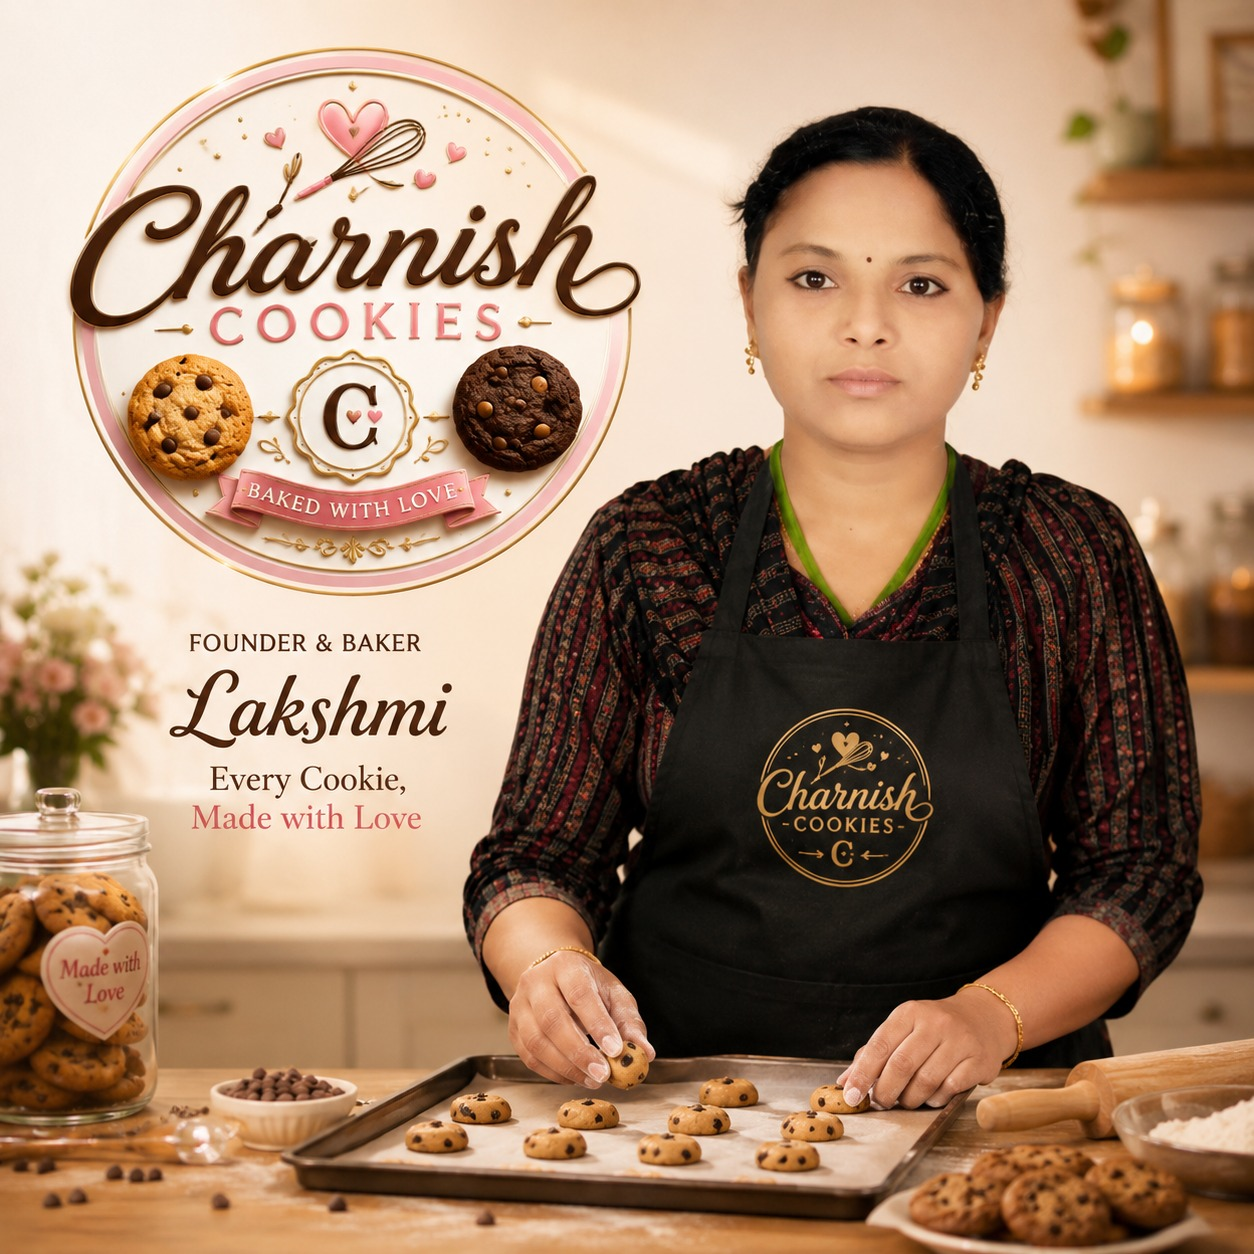
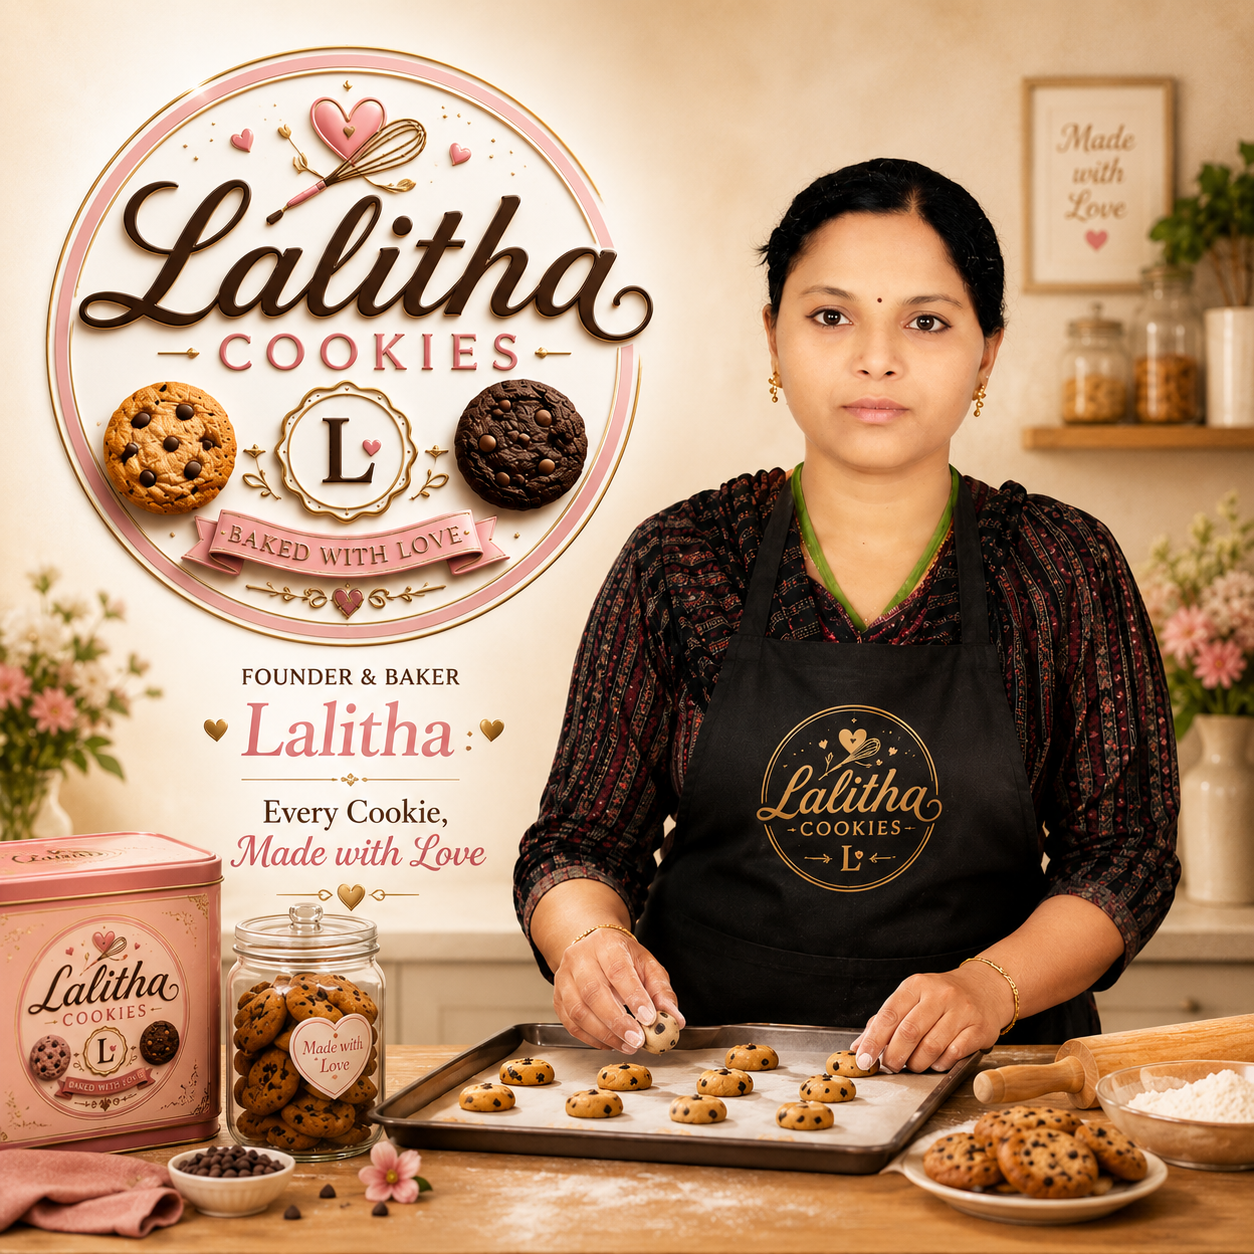
Added full project files

diff --git a/app/admin/coupons/page.tsx b/app/admin/coupons/page.tsx
@@ -1,7 +1,7 @@
 'use client';
 
 import { FormEvent, useEffect, useState } from 'react';
-import { collection, onSnapshot, orderBy, query } from 'firebase/firestore';
+import { addDoc, collection, deleteDoc, doc, onSnapshot, orderBy, query, serverTimestamp, Timestamp, updateDoc } from 'firebase/firestore';
 import toast from 'react-hot-toast';
 import { AdminLayout } from '@/components/admin/AdminLayout';
 import { Button } from '@/components/ui/Button';
@@ -31,23 +31,20 @@ export default function AdminCouponsPage() {
         minOrder: Number(form.get('minOrder')),
         maxUses: Number(form.get('maxUses')),
         usedCount: editing?.usedCount ?? 0,
-        expiresAt: new Date(String(form.get('expiresAt'))).toISOString(),
+        expiresAt: Timestamp.fromDate(new Date(String(form.get('expiresAt')))),
         active: form.get('active') === 'on'
       };
-      const response = await fetch('/api/coupons', {
-        method: 'PUT',
-        headers: { 'content-type': 'application/json' },
-        body: JSON.stringify({ id: editing?.id, ...payload })
-      });
-      const data = await response.json();
-      if (!response.ok) {
-        throw new Error(data.error ?? 'Coupon save failed');
+      if (editing?.id) {
+        await updateDoc(doc(db, 'coupons', editing.id), { ...payload, updatedAt: serverTimestamp() });
+      } else {
+        await addDoc(collection(db, 'coupons'), { ...payload, createdAt: serverTimestamp(), updatedAt: serverTimestamp() });
       }
       event.currentTarget.reset();
       setEditing(null);
       toast.success(editing?.id ? 'Coupon updated' : 'Coupon saved');
     } catch (error) {
-      toast.error(error instanceof Error ? error.message : 'Could not save coupon.');
+      console.error('Coupon save error:', error);
+      toast.error('Could not save coupon. Confirm you are logged in as [email redacted] and rules are published.');
     } finally {
       setLoading(false);
     }
@@ -56,16 +53,11 @@ export default function AdminCouponsPage() {
   async function remove(id: string) {
     if (!window.confirm('Delete this coupon?')) return;
     try {
-      const response = await fetch('/api/coupons', {
-        method: 'DELETE',
-        headers: { 'content-type': 'application/json' },
-        body: JSON.stringify({ id })
-      });
-      const data = await response.json();
-      if (!response.ok) throw new Error(data.error ?? 'Coupon delete failed');
+      await deleteDoc(doc(db, 'coupons', id));
       toast.success('Coupon deleted');
     } catch (error) {
-      toast.error(error instanceof Error ? error.message : 'Could not delete coupon');
+      console.error('Coupon delete error:', error);
+      toast.error('Could not delete coupon. Confirm admin login/rules.');
     }
   }
 

diff --git a/components/admin/OrderTable.tsx b/components/admin/OrderTable.tsx
@@ -7,6 +7,7 @@ import { Order } from '@/types';
 import { formatCurrency } from '@/lib/utils';
 import { Button } from '@/components/ui/Button';
 import toast from 'react-hot-toast';
+import { buildReceipt, buildReceipts } from '@/lib/pdf';
 
 const PAYMENT_COLORS: Record<string, string> = {
   pending:  'bg-amber-100 text-amber-800',
@@ -82,6 +83,18 @@ export function OrderTable() {
     }
   }
 
+  function downloadReceipt(order: Order) {
+    buildReceipt(order).save(`${order.orderNumber || 'charnish-order'}-receipt.pdf`);
+  }
+
+  function downloadAllReceipts() {
+    if (!orders.length) {
+      toast.error('No orders to download');
+      return;
+    }
+    buildReceipts(orders).save(`charnish-all-receipts-${new Date().toISOString().slice(0, 10)}.pdf`);
+  }
+
   if (loading) {
     return (
       <div className="brand-card p-5">
@@ -109,6 +122,9 @@ export function OrderTable() {
         <h2 className="font-heading text-lg font-bold text-choc-800">
           All Orders <span className="ml-2 text-sm font-normal text-choc-500">({orders.length})</span>
         </h2>
+        <Button variant="gold" className="h-9 px-4 text-xs" onClick={downloadAllReceipts}>
+          Download All Receipts
+        </Button>
       </div>
       <table className="w-full min-w-[860px] text-left text-sm">
         <thead className="text-choc-800">
@@ -149,6 +165,9 @@ export function OrderTable() {
                       View Screenshot
                     </Button>
                   )}
+                  <Button variant="gold" className="h-7 px-2 text-xs" onClick={() => downloadReceipt(order)}>
+                    Receipt
+                  </Button>
                   {order.paymentStatus === 'pending' && (
                     <>
                       <Button

diff --git a/lib/pdf.ts b/lib/pdf.ts
@@ -6,6 +6,12 @@ import { formatCurrency } from '@/lib/utils';
 
 export function buildReceipt(order: Order) {
   const doc = new jsPDF();
+  addReceiptPage(doc, order, false);
+  return doc;
+}
+
+function addReceiptPage(doc: jsPDF, order: Order, newPage: boolean) {
+  if (newPage) doc.addPage();
   doc.setFontSize(18);
   doc.text('Charnish Cookies', 14, 18);
   doc.setFontSize(10);
@@ -17,11 +23,18 @@ export function buildReceipt(order: Order) {
   autoTable(doc, {
     startY: 60,
     head: [['Item', 'Qty', 'Price', 'Subtotal']],
-    body: order.items.map((item) => [item.name, item.quantity, formatCurrency(item.price), formatCurrency(item.price * item.quantity)])
+    body: (order.items ?? []).map((item) => [item.name, item.quantity, formatCurrency(item.price), formatCurrency(item.price * item.quantity)])
   });
 
   doc.text(`Discount: ${formatCurrency(order.discount)}`, 14, 120);
   doc.text(`Grand Total: ${formatCurrency(order.total)}`, 14, 128);
-  doc.text('Thank you for ordering from Charnish Cookies.', 14, 142);
+  doc.text(`Payment: ${order.paymentMethod} | ${order.paymentStatus}`, 14, 136);
+  doc.text(`Status: ${order.orderStatus}`, 14, 144);
+  doc.text('Thank you for ordering from Charnish Cookies.', 14, 158);
+}
+
+export function buildReceipts(orders: Order[]) {
+  const doc = new jsPDF();
+  orders.forEach((order, index) => addReceiptPage(doc, order, index > 0));
   return doc;
 }

diff --git a/components/layout/AnnouncementBar.tsx b/components/layout/AnnouncementBar.tsx
@@ -1,0 +1,16 @@
+import { Gift, Sparkles, Truck } from 'lucide-react';
+
+export function AnnouncementBar() {
+  return (
+    <div className="relative isolate overflow-hidden bg-gradient-to-r from-choc-900 via-choc-800 to-pink-900 text-white">
+      <div className="absolute inset-0 opacity-20 [background-image:radial-gradient(circle_at_20%_20%,#E8CC7A_0,transparent_28%),radial-gradient(circle_at_80%_40%,#E8819D_0,transparent_24%)]" />
+      <div className="container-page relative flex min-h-11 flex-wrap items-center justify-center gap-x-5 gap-y-2 py-2 text-center text-xs font-black uppercase tracking-wide md:text-sm">
+        <span className="inline-flex items-center gap-2 text-gold-300"><Sparkles size={16} /> Charnish Cookies</span>
+        <span className="hidden h-4 w-px bg-white/30 md:inline-block" />
+        <span className="inline-flex items-center gap-2"><Gift size={16} /> Website made by <strong className="text-gold-300">WayzenTech</strong> 9398724704</span>
+        <span className="hidden h-4 w-px bg-white/30 md:inline-block" />
+        <span className="inline-flex items-center gap-2 text-pink-100"><Truck size={16} /> Free shipping on celebration orders</span>
+      </div>
+    </div>
+  );
+}

diff --git a/app/layout.tsx b/app/layout.tsx
@@ -8,6 +8,7 @@ import { MobileNav } from '@/components/layout/MobileNav';
 import { Footer } from '@/components/layout/Footer';
 import { ChatWidget } from '@/components/chatbot/ChatWidget';
 import { FloatingActions } from '@/components/layout/FloatingActions';
+import { AnnouncementBar } from '@/components/layout/AnnouncementBar';
 
 const inter = Inter({
   subsets: ['latin'],
@@ -95,8 +96,10 @@ export const metadata: Metadata = {
   },
 
   icons: {
-    icon: '/favicon.ico',
-    shortcut: '/favicon.ico',
+    icon: [
+      { url: '/logo.png', type: 'image/png', sizes: '512x512' },
+    ],
+    shortcut: '/logo.png',
     apple: '/logo.png',
   },
 
@@ -167,6 +170,7 @@ export default function RootLayout({
         />
 
         <Providers>
+          <AnnouncementBar />
           <Navbar />
 
           <main>{children}</main>